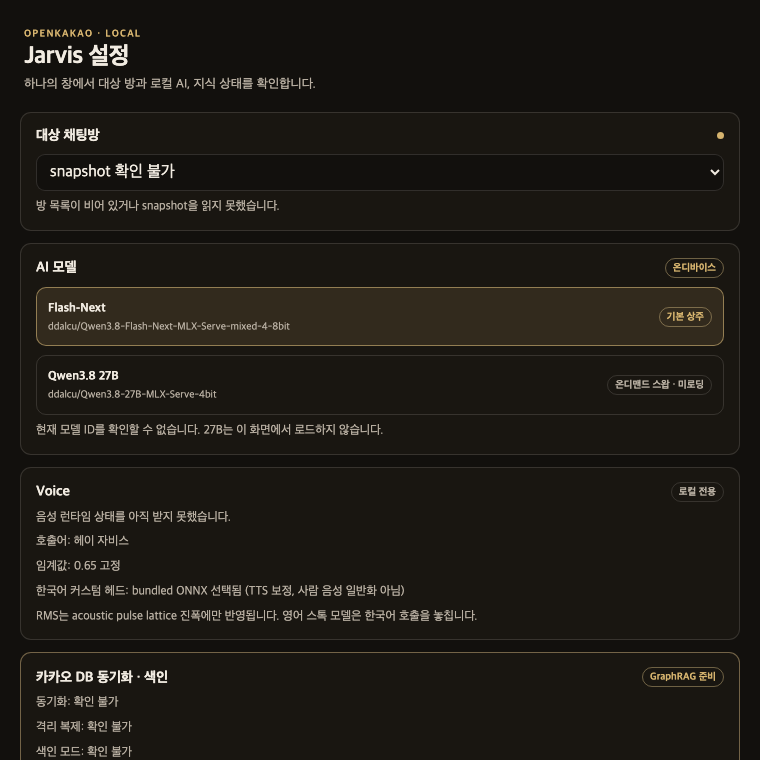
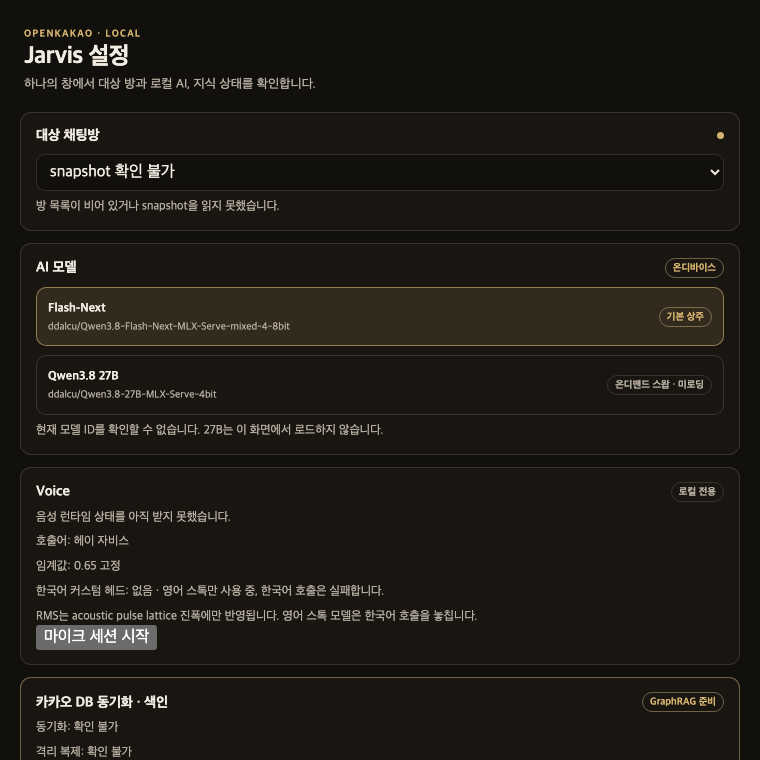
docs(ui): 마이크 시작 버튼이 있는 재빌드 설정 카드를 수록한다
Debug pid 40102, Extra 20042. The live microphone was not opened.

Changed region(s): [[0.0303, 0.8171, 0.2421, 0.9987], [0.1816, 0.7566, 0.5447, 0.7868], [0.8474, 0.8776, 0.9684, 0.9382]]

diff --git a/docs/architecture/unit5-live-proofs.md b/docs/architecture/unit5-live-proofs.md
@@ -479,3 +479,9 @@ Settings Voice now has `voice-start` (마이크 세션 시작). The gear-only ma
 
 Rust `plan_voice_session_requires_isolated_interpreter` **OK**. Desktop vitest **13 OK**. Extra pid **20042** and debug pid **84521** were not restarted, so this button is in source until the next debug rebuild. The live microphone was not opened. 27B stayed unloaded.
 
+## Debug rebuild with opt-in mic button — 2026-09-20 KST
+
+Rebuilt `OpenKakao Jarvis.app` at HEAD `6f76876` and replaced only the parallel debug process. New pid **40102**, ppid 1, `com.openkakao.jarvis.desktop`. Extra pid **20042** stayed on LaunchAgent. The live microphone button was not clicked.
+
+Updated capture `docs/architecture/jarvis-settings-panel.png` **760×760 / 75,913 bytes** from the built `dist` settings view. Voice shows 호출어 헤이 자비스, 임계값 0.65, and **마이크 세션 시작**. This static capture has no Tauri IPC, so the custom-head line is the no-snapshot stock-only copy; the live Rust snapshot still selects bundled ONNX when the file validates. 27B stayed unloaded.
+

diff --git a/README.md b/README.md
@@ -91,6 +91,7 @@ Current limits:
 - Debug Tauri was rebuilt at `96153df` and is running as pid **63463** (`com.openkakao.jarvis.desktop`) without replacing Extra.
 - Debug Jarvis now ignores SIGHUP: after rebuild, `open` pid **84521** survived `kill -HUP` with Extra **20042** unchanged. An unused LaunchAgent template is in the repo and was not loaded.
 - Settings Voice has an opt-in **마이크 세션 시작** control that spawns the isolated `.venv-voice` `jarvis_voice.py` session. It does not auto-start. Extra was not restarted.
+- Debug Jarvis was rebuilt at `6f76876` as pid **40102**. The settings capture now includes **마이크 세션 시작**. Extra **20042** unchanged.
 
 Recovery and safety:
 
